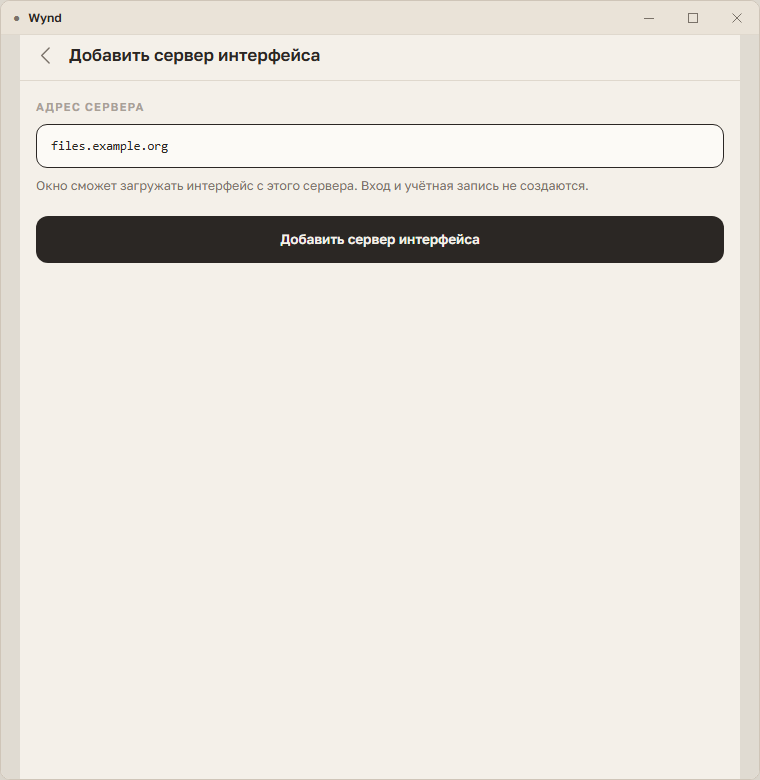
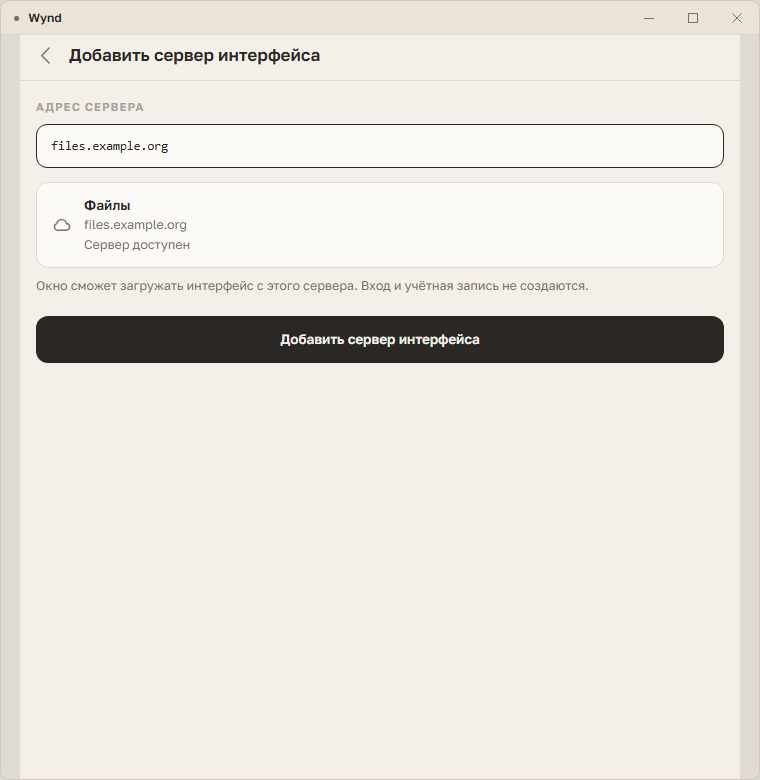
План 62: проверка сервера при добавлении интерфейса

Changed region(s): [[0.0303, 0.2154, 0.9684, 0.3692], [0.0303, 0.4, 0.9684, 0.4923]]

diff --git a/docs/plans/62-desktop-servers-settings.plan.md b/docs/plans/62-desktop-servers-settings.plan.md
@@ -49,6 +49,7 @@
 - «Добавить сервер интерфейса» только расширяет список оболочки и не создаёт вход. На экране учётных записей действие называется «Войти на сервер». **Владелец уточнил 2026-11-10: заменить «Добавить сервер» на «Войти на сервер» также в основном приложении**, включая заголовок формы входа; это не отдельная особенность настольного окна.
 - Неактивный источник имеет крестик; у текущего крестика нет. Отдельный экран удаления отклонён владельцем 2026-11-10: не плодить одинаковые экраны. Крестик открывает стандартный `ConfirmDialog` «Убрать сервер … из списка?» с пояснением, что входы и данные останутся, и кнопками «Убрать» / «Оставить». Сразу без подтверждения не удаляем.
 - Если входов нет, «Серверы» показывает пустой список учётных записей, а не отсутствие приложения: «Вы ни на одном сервере не вошли. Интерфейс продолжит открываться с сервера …».
+- При добавлении источника после успешной проверки адреса показывается существующая `ServerRow`: имя и адрес сервера, третья строка — «Сервер доступен». Это подтверждение корректности адреса и связи до добавления; плашка не создаёт вход. В форме входа плашка сервера уже была.
 - **Кадр «Интерфейс открыт, но входа нет» принят владельцем 2026-11-10 ответом «да»** — и смысл, и показанная вёрстка. Он становится основой реализации этого состояния.
 - Первый кадр смены источника не принят: плашка и стрелка у альтернативы заменены существующим шаблоном выбора. **Исправленный кадр 5 принят владельцем 2026-11-10 ответом «Да»**: две строки текста у каждого сервера, галочка у текущего, крестик у неактивного. Диалог с обязательным подтверждением «Убрать» / «Оставить» после исправления до стандартных 436 px **также принят отдельным ответом «Да»**. Широкий вариант отклонён и не является основой реализации.
 
@@ -62,7 +63,8 @@
 - Полный сценарий собран в [отдельном исходнике](62-desktop-server-flow.frames.svelte.txt), без вариантов А и В. Команда рендера: `node dev/desktop-mockup/render-server-flow.mjs`. Исправленный кадр 5 и его диалог собраны в [отдельном исходнике выбора](62-desktop-server-choice.frames.svelte.txt) на основе `ReceivingServerPicker.svelte`; команда: `node dev/desktop-mockup/render-server-choice.mjs`.
 - Порядок и изображения: [1 · Настройки](../visual/reviews/desktop-server-flow-2026-11-10/flow-settings.png), [2 · Серверы](../visual/reviews/desktop-server-flow-2026-11-10/flow-servers.png), [3 · Вход](../visual/reviews/desktop-server-flow-2026-11-10/flow-login.png), [4 · Приложение](../visual/reviews/desktop-server-flow-2026-11-10/flow-app.png), [5 · Смена источника](../visual/reviews/desktop-server-flow-2026-11-10/flow-change-standard.png), [подтверждение удаления](../visual/reviews/desktop-server-flow-2026-11-10/flow-change-confirm.png), [6 · Добавление источника](../visual/reviews/desktop-server-flow-2026-11-10/flow-add-interface.png), [7 · Без входа](../visual/reviews/desktop-server-flow-2026-11-10/flow-no-login.png). Для проверки действия в конце длинного списка дополнительно снят [низ «Серверов»](../visual/reviews/desktop-server-flow-2026-11-10/flow-servers-bottom.png). Прежний `flow-change.png` с плашкой и стрелкой заменён и не является действующим вариантом.
 - Осмотр полного набора: шапки, навигация, типографика, переносы и основные действия отображаются без наложений. На исправленном кадре смены обе строки имеют по две строки текста: у выбранного сервера галочка, у неактивного — крестик. Диалог подтверждения показан поверх того же экрана со стандартной шириной 436 px по центру; пояснение и обе кнопки помещаются. «Войти на сервер» на заполненном экране учётных записей доступно обычной прокруткой и полностью видно в её нижней части. Кадр 7 повторяет принятую разметку и визуально совпадает с прежним снимком; файлы PNG не являются побайтово идентичными из-за рендера.
-- Это браузерная проверка настоящего Svelte, не снимок WebView2 и не подтверждение поведения. Структура Б, состояние без входа, кадр 5 и диалог удаления шириной 436 px приняты; вёрстка кадров 1–4 и 6 остаётся черновой.
+- Уточнение кадра 6: основа — `docs/plans/62-desktop-server-flow.frames.svelte.txt`, `#flow-add-interface`, коммит `43f85ed4`. Единственное изменение окна — существующая `ServerRow` с именем, адресом и «Сервер доступен» между полем и пояснением. Прежний и новый кадр сняты из настоящего Svelte при 760 × 780, 100%, светлой теме; новый осмотрен: три строки читаются, соседние элементы не смещены за границы и не перекрыты. `npm run check:ui` — `check-ui: OK`.
+- Это браузерная проверка настоящего Svelte, не снимок WebView2 и не подтверждение поведения. Структура Б, кадры 1–4 и 7, кадр 5 и диалог удаления шириной 436 px приняты; обновлённый кадр 6 остаётся черновым до отдельного подтверждения владельца.
 
 ## Сделано и выпущено в этой сессии (контекст)
 
